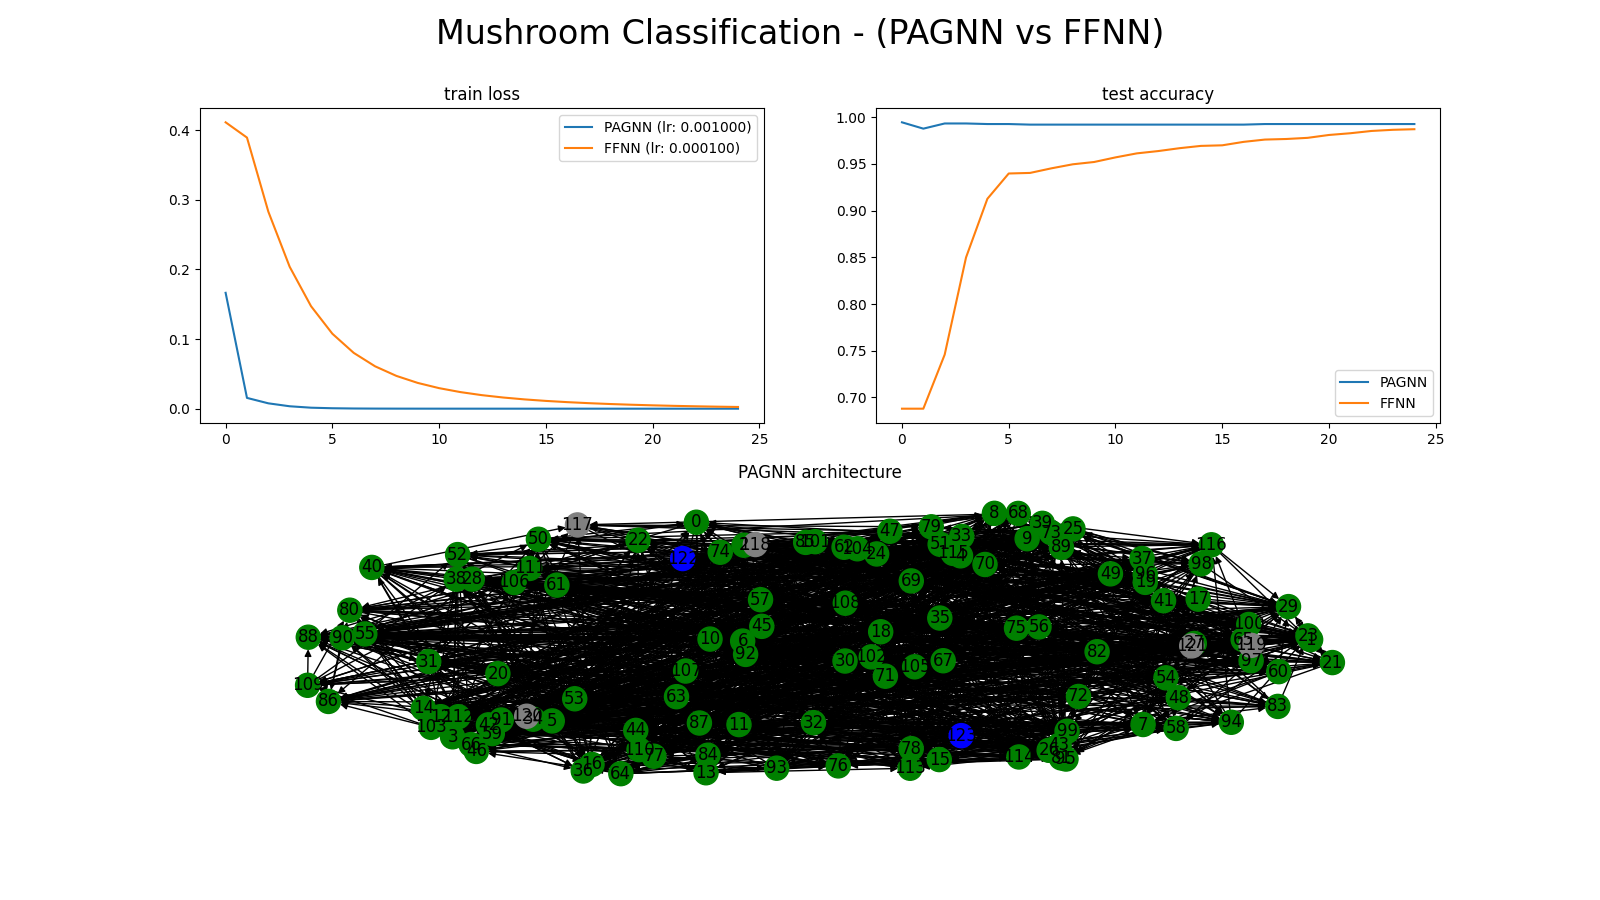
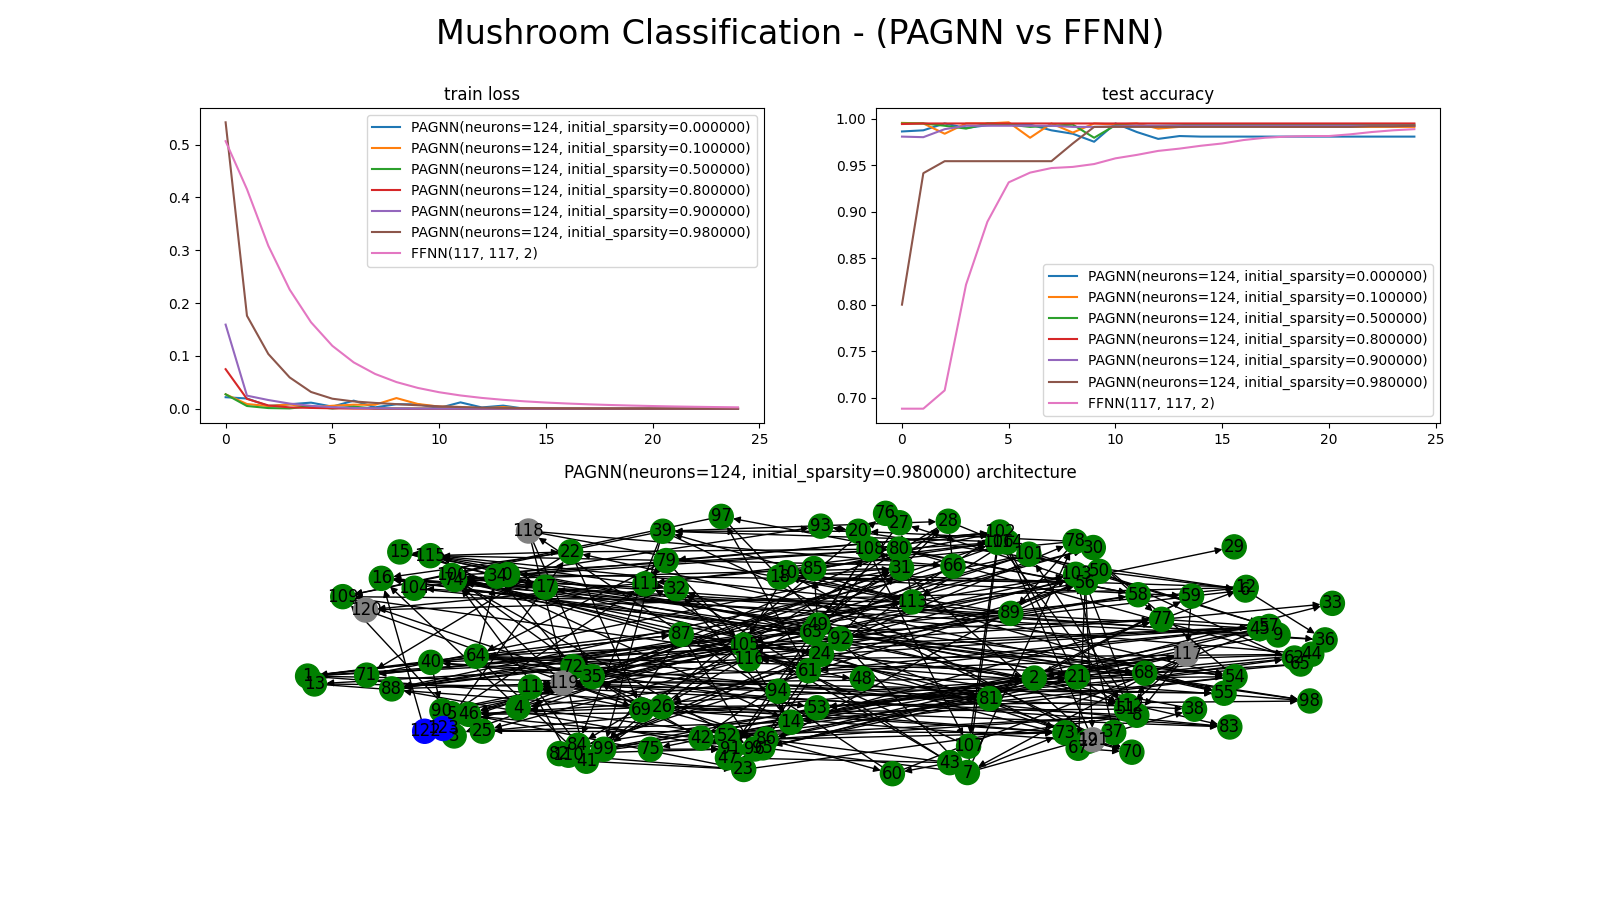
compare initial_sparsity values from 0-98%

diff --git a/comparisons/mushroom_classification.py b/comparisons/mushroom_classification.py
@@ -52,55 +52,74 @@ if __name__ == '__main__':
 
     print('input features:', D, 'num classes:', C)
 
-    pagnn_lr = 0.001
-    extra_neurons = 5
-    pagnn_model = PAGNN(D + C + extra_neurons, D, C, initial_sparsity=0.98) # graph_generator=nx.generators.classic.complete_graph)
-    pagnn = {
-        'name': 'PAGNN',
-        'model': pagnn_model,
-        'num_steps': 5,
-        'optimizer': torch.optim.Adam(pagnn_model.parameters(), lr=pagnn_lr),
-    }
+    device = torch.device('cuda') # CUDA for this test is faster (quite a bit more neurons)
+
+    model_dicts = []
+    configs = [
+        {'initial_sparsity': 0, 'num_steps': 5},
+        {'initial_sparsity': 0.1, 'num_steps': 5},
+        {'initial_sparsity': 0.5, 'num_steps': 5},
+        {'initial_sparsity': 0.8, 'num_steps': 5},
+        {'initial_sparsity': 0.9, 'num_steps': 5},
+        {'initial_sparsity': 0.98, 'num_steps': 5},
+    ]
+    
+    for config in configs:
+        pagnn_lr = 0.001
+        extra_neurons = 5
+        n = D + C + extra_neurons
+        pagnn_model = PAGNN(n, D, C, initial_sparsity=config['initial_sparsity']) # graph_generator=nx.generators.classic.complete_graph)
+        pagnn_model.to(device)
+        pagnn = {
+            'name': 'PAGNN(neurons=%i, initial_sparsity=%f)' % (n, config['initial_sparsity']),
+            'model': pagnn_model,
+            'num_steps': config['num_steps'],
+            'optimizer': torch.optim.Adam(pagnn_model.parameters(), lr=pagnn_lr),
+        }
+
+        model_dicts.append(pagnn)
 
     ffnn_lr = 0.0001
     ffnn_model = FFNN(D, D, C)
+    ffnn_model.to(device)
     ffnn = {
-        'name': 'FFNN',
+        'name': 'FFNN(%i, %i, %i)' % (D, D, C),
         'model': ffnn_model,
         'optimizer': torch.optim.Adam(ffnn_model.parameters(), lr=ffnn_lr),
     }
 
-    print('pagnn num params:', sum(p.numel() for p in pagnn_model.parameters()))
-    print('ffnn num params:', sum(p.numel() for p in ffnn_model.parameters()))
+    model_dicts.append(ffnn)
 
-    device = torch.device('cuda') # CUDA for this test is faster (quite a bit more neurons)
-    pagnn_model.to(device)
-    ffnn_model.to(device)
+    # print('pagnn num params:', sum(p.numel() for p in pagnn_model.parameters()))
+    # print('ffnn num params:', sum(p.numel() for p in ffnn_model.parameters()))
 
     criterion = F.cross_entropy
     epochs = 25
-    compare((ffnn, pagnn), train_dl, test_dl, epochs, criterion, test_accuracy=True, device=device)
+    compare(model_dicts, train_dl, test_dl, epochs, criterion, test_accuracy=True, device=device)
     
     fig = plt.figure(figsize=(16, 9))
     fig.suptitle('Mushroom Classification - (PAGNN vs FFNN)', fontsize=24)
 
     plt.subplot(221)
-    plt.plot(pagnn['train_history'], label='PAGNN (lr: %f)' % pagnn_lr)
-    plt.plot(ffnn['train_history'], label='FFNN (lr: %f)' % ffnn_lr)
+    for model_dict in model_dicts:
+        plt.plot(model_dict['train_history'], label=model_dict['name'])
+    # plt.plot(ffnn['train_history'], label='FFNN (lr: %f)' % ffnn_lr)
     plt.legend()
     plt.title('train loss')
 
     plt.subplot(222)
-    plt.plot(pagnn['test_history'], label='PAGNN')
-    plt.plot(ffnn['test_history'], label='FFNN')
+    for model_dict in model_dicts:
+        plt.plot(model_dict['test_history'], label=model_dict['name'])
+    # plt.plot(ffnn['test_history'], label='FFNN')
     plt.legend()
     plt.title('test accuracy')
 
     plt.subplot(212)
     print('creating graph...')
+    pagnn = model_dicts[-2] # get the last pagnn network defined
     G, color_map = pagnn['model'].get_networkx_graph(return_color_map=True)
     nx.draw(G, with_labels=True, node_color=color_map)
-    plt.title('PAGNN architecture')
+    plt.title('%s architecture' % pagnn['name'])
 
     plt.savefig('figures/mushroom_classification.png', transparent=True)
     plt.show()
